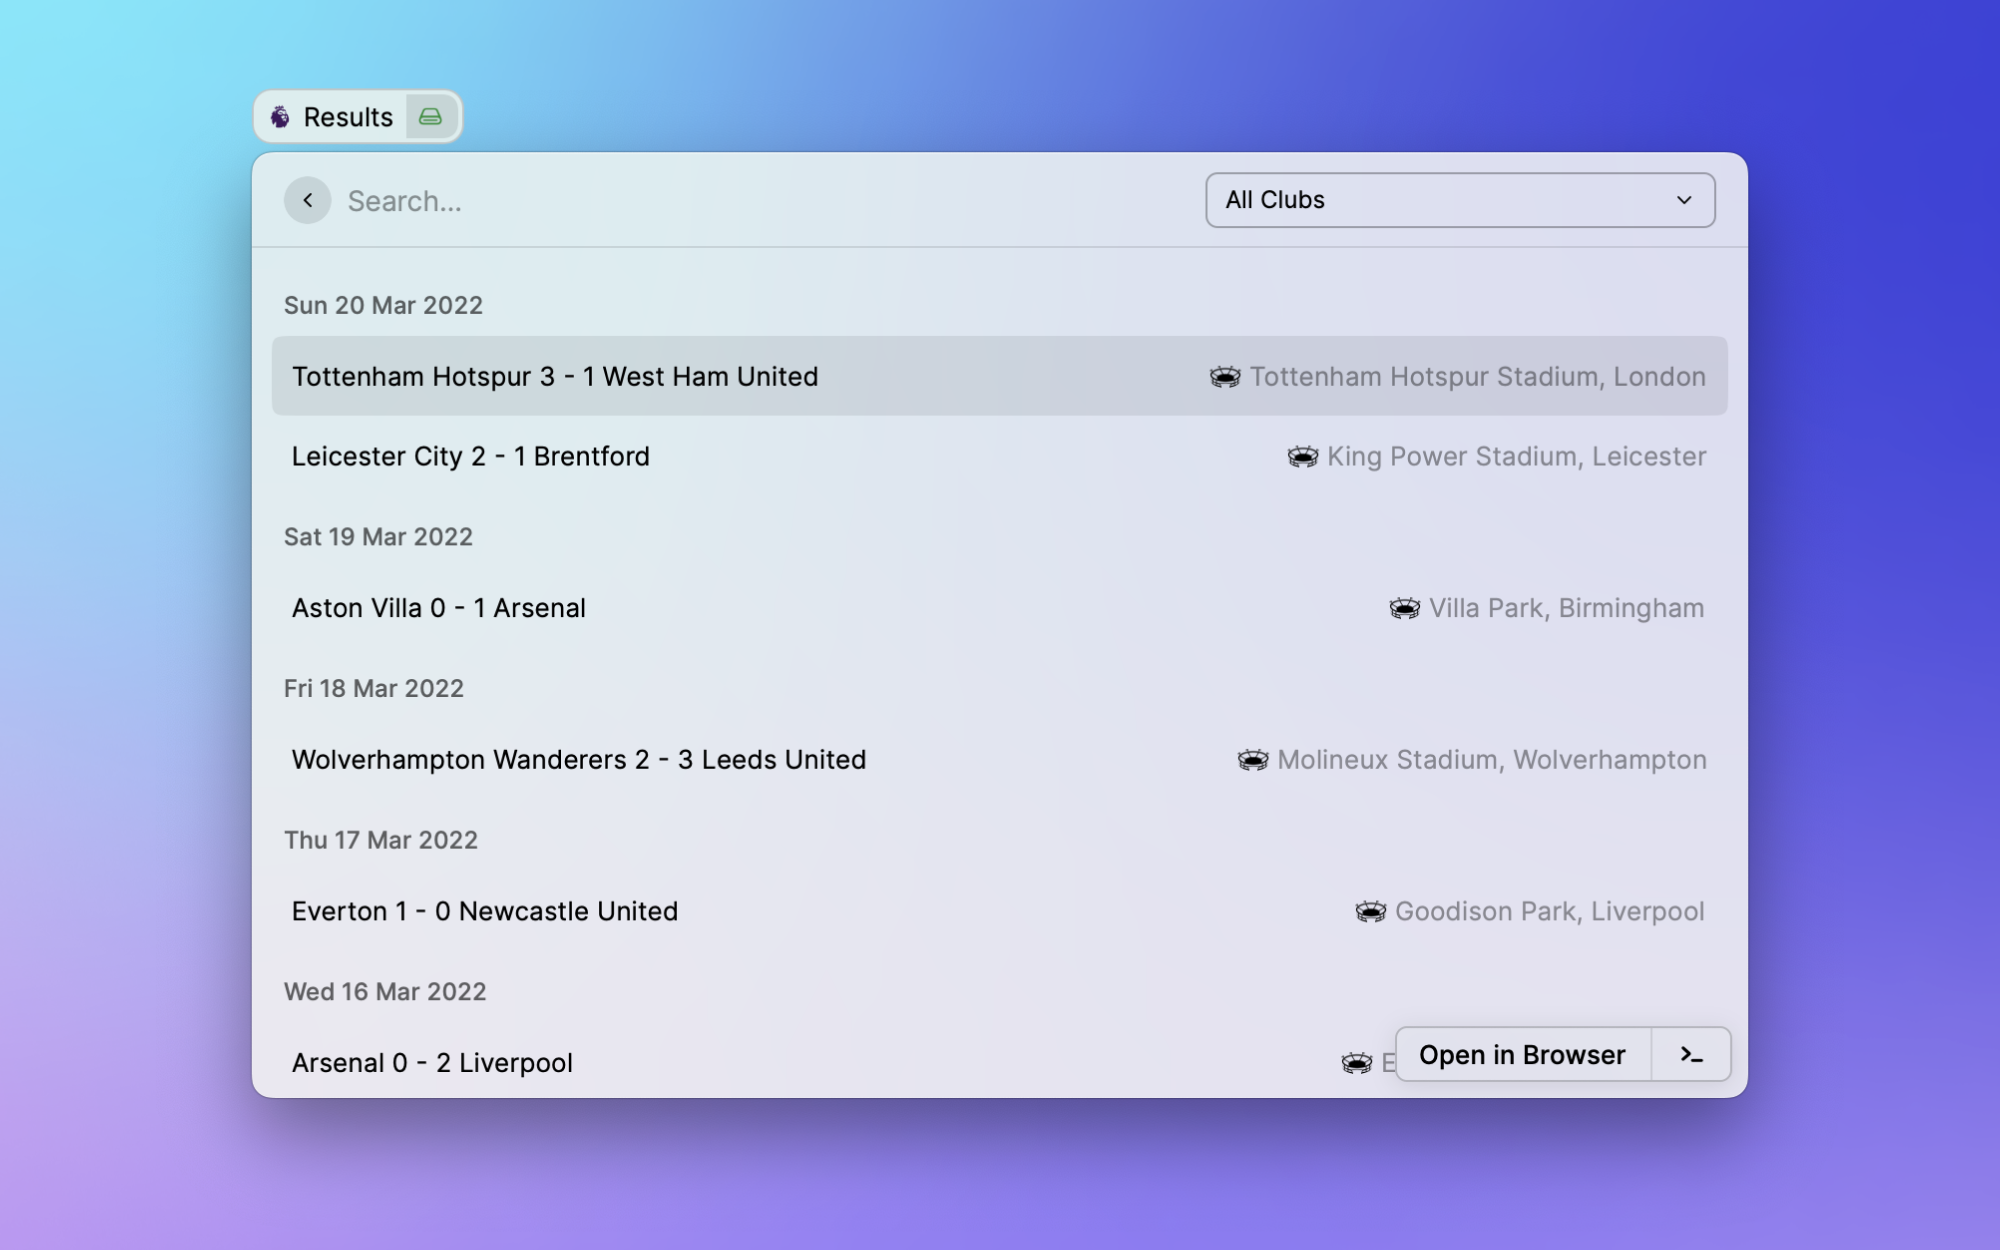
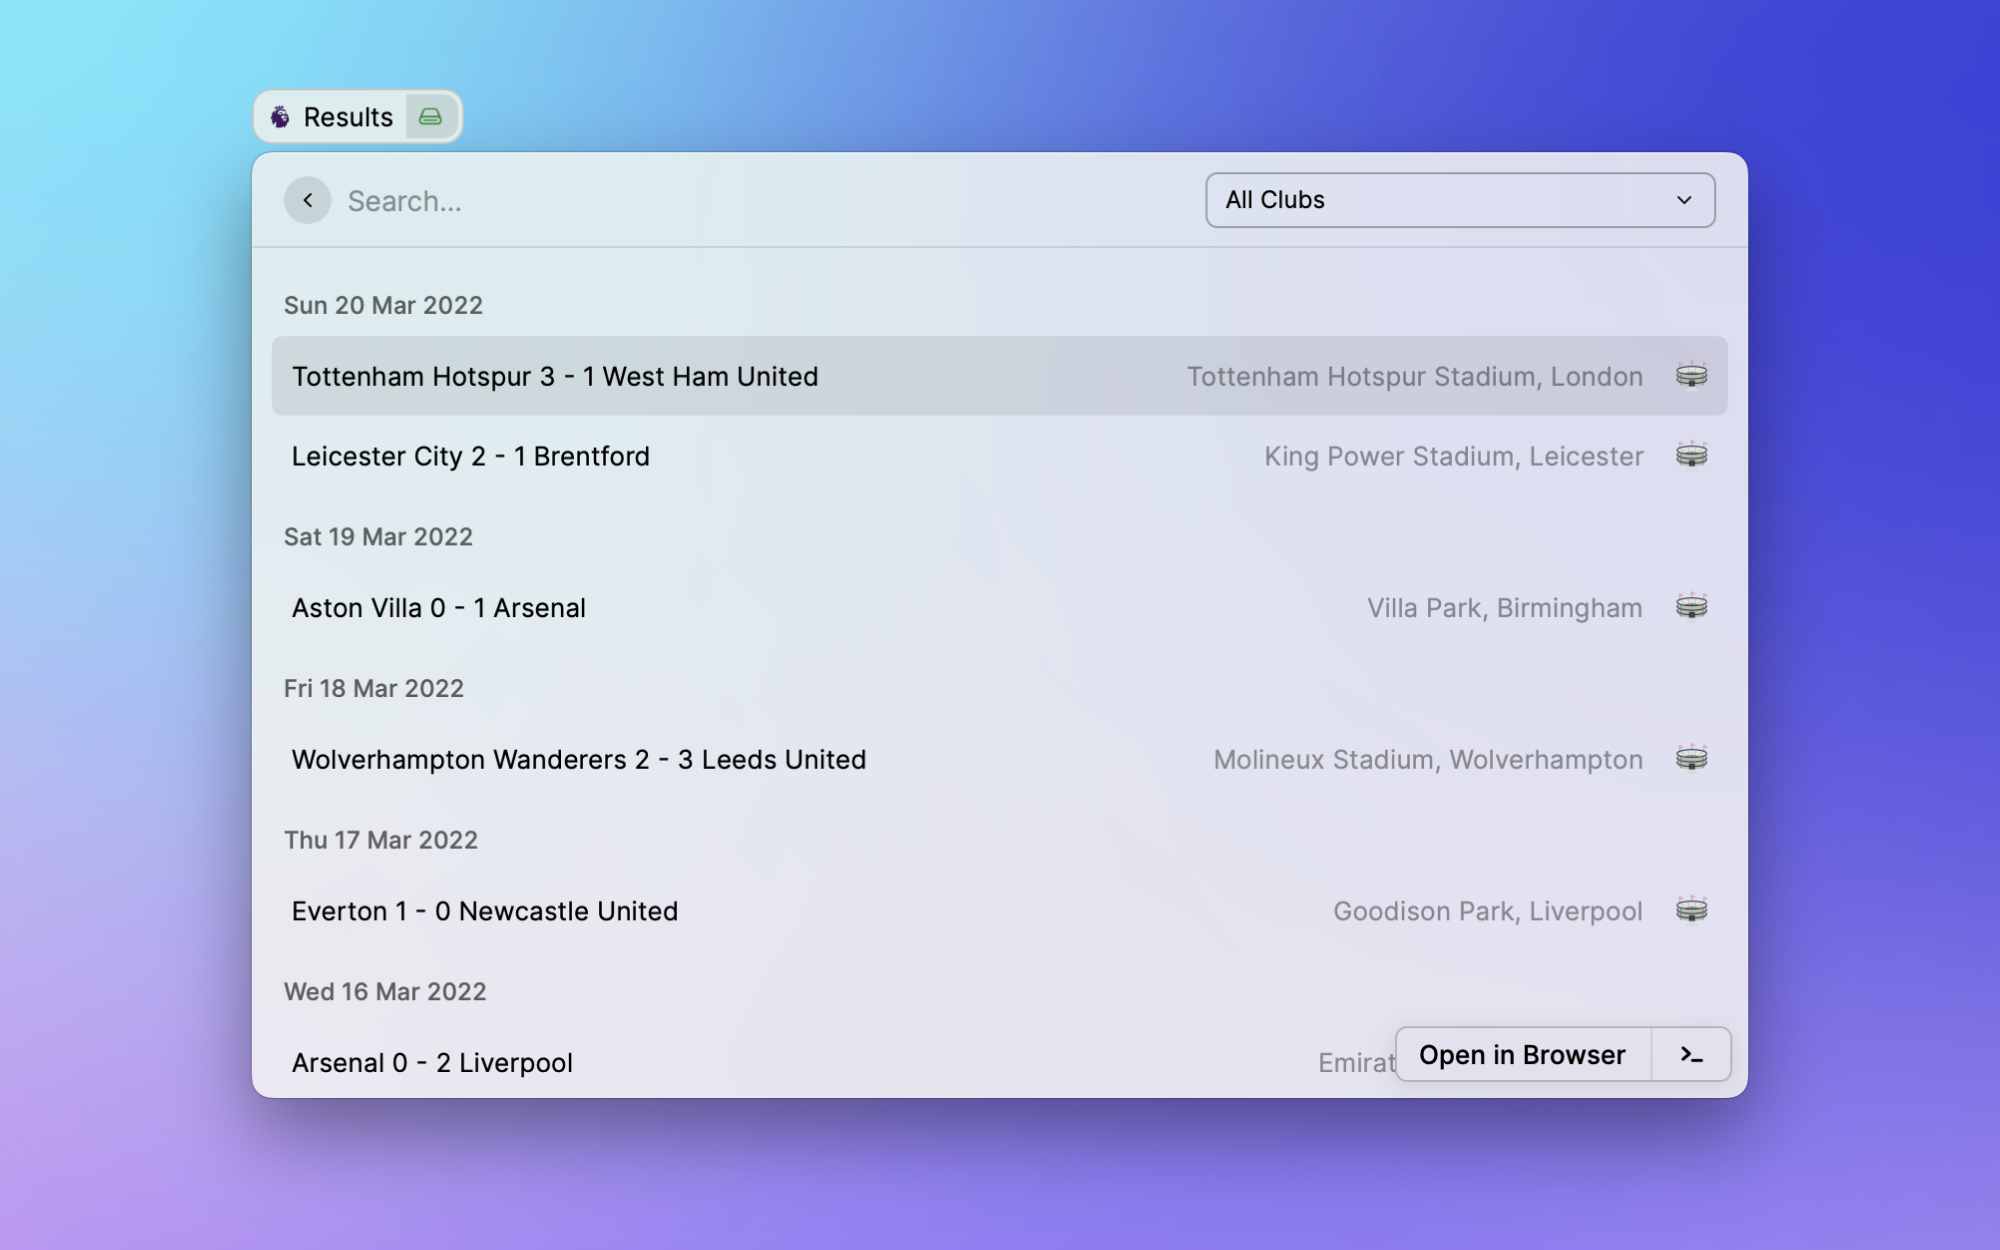
fix: update fixture view

diff --git a/src/table.tsx b/src/table.tsx
@@ -9,7 +9,7 @@ export default function GetTables() {
   const [tables, setTables] = useState<Table[]>([]);
   const [season, setSeason] = useState<string>(seasons[0].value);
   const [loading, setLoading] = useState<boolean>(false);
-  const [showDetails, setShowDetails] = useState<boolean>(false);
+  const [showStats, setShowStats] = useState<boolean>(false);
 
   useEffect(() => {
     setTables([]);
@@ -26,7 +26,6 @@ export default function GetTables() {
 
     const dataObject = [
       { h1: team.name },
-      { h2: "Overview" },
       { p: ground.name ? `Stadium: ${ground.name}, **${ground.city}**` : "" },
       { p: ground.capacity ? `Capacity: ${ground.capacity}` : "" },
       { h2: "Stats" },
@@ -71,7 +70,7 @@ export default function GetTables() {
       throttle
       searchBarAccessory={<SeasonDropdown onSelect={setSeason} />}
       isLoading={loading}
-      isShowingDetail={showDetails}
+      isShowingDetail={showStats}
     >
       {tables.map((table) => {
         return (
@@ -103,7 +102,7 @@ export default function GetTables() {
                 };
               }
 
-              const props: Partial<List.Item.Props> = showDetails
+              const props: Partial<List.Item.Props> = showStats
                 ? {
                     accessories: [
                       { text: overall.points.toString() },
@@ -121,7 +120,7 @@ export default function GetTables() {
                     ],
                   };
 
-              if (!showDetails && next) {
+              if (!showStats && next) {
                 const nextTeam =
                   ground.id === next.ground.id ? next.teams[1] : next.teams[0];
 
@@ -145,9 +144,9 @@ export default function GetTables() {
                   actions={
                     <ActionPanel>
                       <Action
-                        title={showDetails ? "Hide Details" : "Show Details"}
+                        title={showStats ? "Hide Stats" : "Show Stats"}
                         icon={Icon.Sidebar}
-                        onAction={() => setShowDetails(!showDetails)}
+                        onAction={() => setShowStats(!showStats)}
                       />
                       <Action.OpenInBrowser
                         title="Visit Club Page"

diff --git a/src/fixture.tsx b/src/fixture.tsx
@@ -58,20 +58,19 @@ export default function Fixture() {
               const kickoff = label
                 ? format(
                     parse(label, "EEE d MMM yyyy, HH:mm XXX", new Date()),
-                    "EEE, dd MMM yyyy HH:mm"
+                    "HH:mm"
                   )
                 : "TBC";
 
               return (
                 <List.Item
                   key={match.id}
-                  title={`${match.teams[0].team.name} - ${match.teams[1].team.name}`}
+                  title={kickoff}
+                  subtitle={`${match.teams[0].team.name} - ${match.teams[1].team.name}`}
+                  icon={Icon.Clock}
                   accessories={[
-                    {
-                      text: `${match.ground.name}, ${match.ground.city}`,
-                      icon: "stadium.svg",
-                    },
-                    { text: kickoff, icon: Icon.Clock },
+                    { text: `${match.ground.name}, ${match.ground.city}` },
+                    { icon: "stadium.svg" },
                   ]}
                   actions={
                     <ActionPanel>

diff --git a/src/result.tsx b/src/result.tsx
@@ -53,10 +53,8 @@ export default function Fixture() {
                   key={match.id}
                   title={`${match.teams[0].team.name} ${match.teams[0].score} - ${match.teams[1].score} ${match.teams[1].team.name}`}
                   accessories={[
-                    {
-                      text: `${match.ground.name}, ${match.ground.city}`,
-                      icon: "stadium.svg",
-                    },
+                    { text: `${match.ground.name}, ${match.ground.city}` },
+                    { icon: "stadium.svg" },
                   ]}
                   actions={
                     <ActionPanel>
